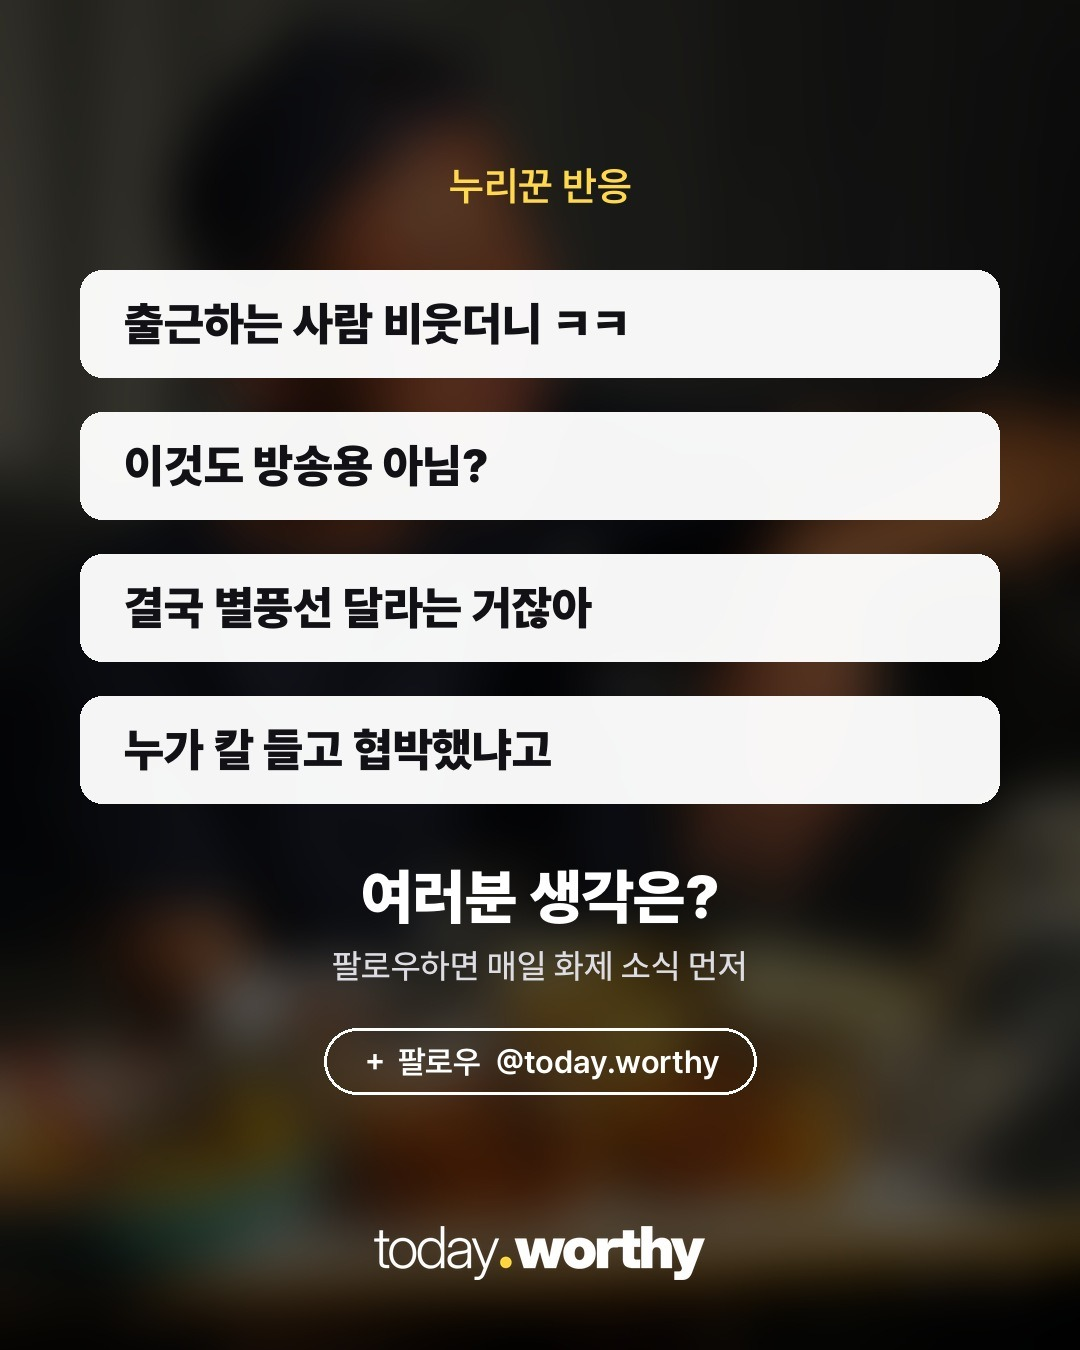
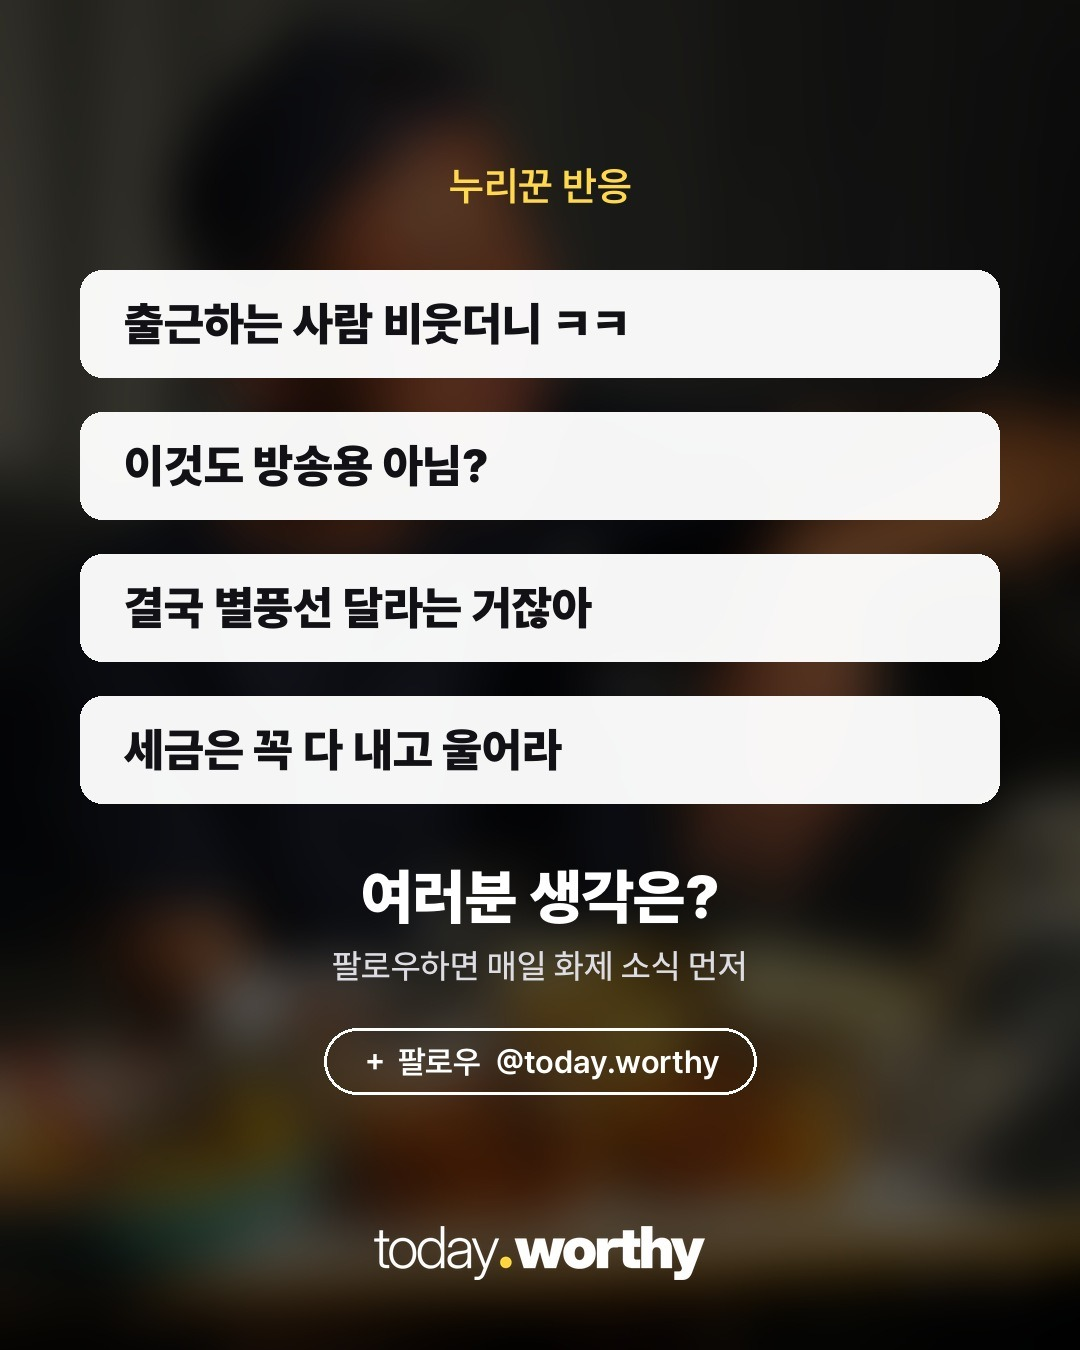
zico: 반응 4번째 세금 추징 관련으로
Claude-Session: https://claude.ai/code/session_01FGsw5S4nGrZdCJo7qBU1wE

Changed region(s): [[0.1222, 0.5289, 0.5194, 0.5911]]

diff --git a/media/20261123-zico/make_cta.py b/media/20261123-zico/make_cta.py
@@ -5,7 +5,7 @@ from PIL import Image, ImageDraw, ImageFont, ImageFilter, ImageEnhance, ImageOps
 D = Path(__file__).parent; R = D.parents[1]; O = D / "cand"
 W, H = 1080, 1350; YE = (255, 216, 77)
 F = lambda w, s: ImageFont.truetype(str(R / f"assets/fonts/Pretendard-{w}.otf"), s)
-COMMENTS = ["출근하는 사람 비웃더니 ㅋㅋ", "이것도 방송용 아님?", "결국 별풍선 달라는 거잖아", "누가 칼 들고 협박했냐고"]
+COMMENTS = ["출근하는 사람 비웃더니 ㅋㅋ", "이것도 방송용 아님?", "결국 별풍선 달라는 거잖아", "세금은 꼭 다 내고 울어라"]
 
 bg = ImageOps.fit(Image.open(O / "cover_bg.jpg").convert("RGB"), (W, H), Image.LANCZOS)
 bg = ImageEnhance.Brightness(bg.filter(ImageFilter.GaussianBlur(26))).enhance(.35).convert("RGBA")
